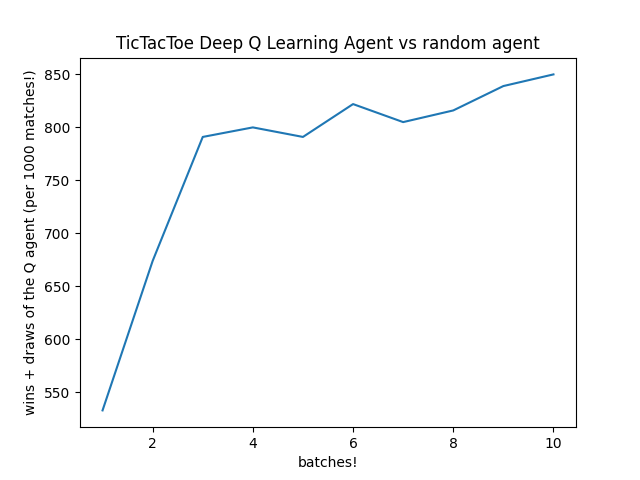
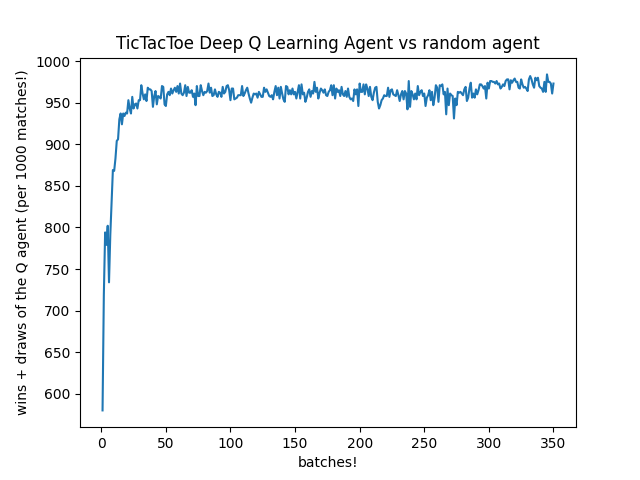
Updated image

diff --git a/tictacQLtest.py b/tictacQLtest.py
@@ -196,16 +196,9 @@ def plot(games, wins, draws):
     plt.title("TicTacToe Deep Q Learning Agent vs random agent")
     plt.plot(games, wins)
     plt.savefig("Plots/TicTacToe_wins.png")
-
-    # plt.xlabel('matches')
-    # plt.ylabel('draws')
-    # plt.title("TicTacToe QLearning Agent vs random player")
-
-   # plt.plot(games, draws)
-  #  plt.savefig("TicTacToe_draws.png")
     return 0
 def instance(order):
-    total_batches = 10
+    total_batches = 350
     nets_number = 1
     number_of_games_per_batch = 1000
     critic_net = NeuralNetwork([27, 27, 27, 1], 0.17, [RELU, RELU, SIGMOID])

diff --git a/README.md b/README.md
@@ -40,7 +40,7 @@ QAgent is the component used for a game agent, see tictacQLtest.py for the ticta
 
 # Examples
 Here is a graph that portray the evolution of the Q agent against a random agent.
-The agent is playing 10 batches of 1000 games each! (It plays as the 'O' player and random player plays as 'X')
+The agent is playing 350 batches of 1000 games each! (It plays as the 'O' player and random player plays as 'X')
 
 To run this example run
 
